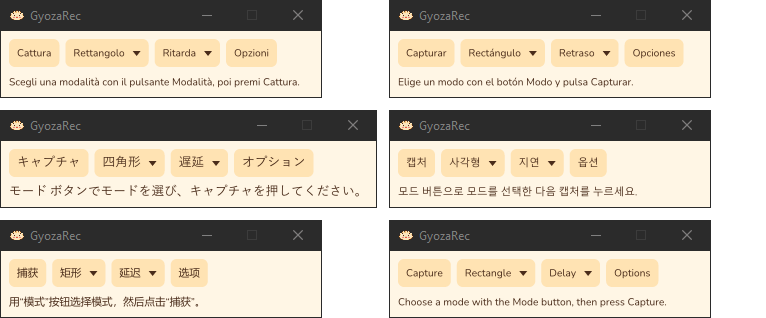
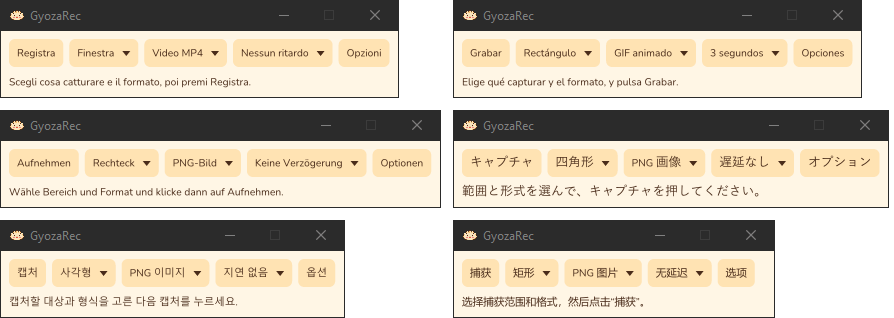
feat(ui): separate Area and Format menus
The toolbar shows Capture (Record for videos and GIFs), Area, Format,
Delay and Options; each dropdown shows its current value. The starting
hint names the capture button as it is labelled. README and screenshots
updated.

diff --git a/src/presentation/toolbar_state.rs b/src/presentation/toolbar_state.rs
@@ -30,22 +30,6 @@ pub fn capture_label(settings: &AppSettings, texts: &Texts) -> &'static str {
     if settings.format.is_recording() { texts.record } else { texts.capture }
 }
 
-// Transitional: the single menu of the previous toolbar, removed with it.
-pub const MODES: [(CaptureArea, OutputFormat); 5] = [
-    (CaptureArea::Rectangle, OutputFormat::Png),
-    (CaptureArea::Window, OutputFormat::Png),
-    (CaptureArea::FullScreen, OutputFormat::Png),
-    (CaptureArea::Rectangle, OutputFormat::Mp4),
-    (CaptureArea::Rectangle, OutputFormat::Gif),
-];
-
-pub fn mode_label(mode: (CaptureArea, OutputFormat), texts: &Texts) -> &'static str {
-    match mode {
-        (area, OutputFormat::Png) => area_label(area, texts),
-        (_, format) => format_label(format, texts),
-    }
-}
-
 pub fn delay_label(seconds: u32, texts: &Texts) -> &'static str {
     texts.delays[(seconds as usize).min(DELAYS.len() - 1)]
 }
@@ -105,30 +89,46 @@ pub struct ToolbarState {
     pub busy: bool,
     /// The outcome the status line shows, so it can be re-translated.
     shown_outcome: Option<CaptureOutcome>,
+    /// The status line still shows the starting hint.
+    showing_hint: bool,
 }
 
 impl ToolbarState {
     pub fn new(settings: AppSettings, language: Language) -> Self {
-        Self {
+        let mut state = Self {
             settings,
             language,
-            status: language.texts().initial_status.to_string(),
+            status: String::new(),
             status_is_error: false,
             last_saved: None,
             busy: false,
             shown_outcome: None,
+            showing_hint: true,
+        };
+        state.status = state.hint();
+        state
+    }
+
+    fn hint(&self) -> String {
+        let texts = self.texts();
+        texts.initial_status.replace("{button}", capture_label(&self.settings, texts))
+    }
+
+    /// Call after changing `settings`: the hint names the capture button.
+    pub fn settings_changed(&mut self) {
+        if self.showing_hint {
+            self.status = self.hint();
         }
     }
 
     /// Switches language; the status follows unless it is free text.
     pub fn set_language(&mut self, language: Language) {
-        let old_initial = self.texts().initial_status;
         self.language = language;
         if let Some(o) = &self.shown_outcome {
             let (text, _) = format_status(o, &self.status, self.texts());
             self.status = text;
-        } else if self.status == old_initial {
-            self.status = self.texts().initial_status.to_string();
+        } else if self.showing_hint {
+            self.status = self.hint();
         }
     }
 
@@ -145,6 +145,7 @@ impl ToolbarState {
         }
         if o.kind != CaptureOutcomeKind::Canceled {
             self.shown_outcome = Some(o.clone());
+            self.showing_hint = false;
         }
     }
 
@@ -152,6 +153,7 @@ impl ToolbarState {
         self.status = format!("{}{msg}", self.texts().error_prefix);
         self.status_is_error = true;
         self.shown_outcome = None;
+        self.showing_hint = false;
     }
 }
 
@@ -192,7 +194,7 @@ mod tests {
     fn initial_status_names_the_capture_button_and_no_mode_button() {
         for lang in Language::ALL {
             let t = lang.texts();
-            assert!(t.initial_status.contains(t.capture), "{lang:?}: {}", t.initial_status);
+            assert_eq!(t.initial_status.matches("{button}").count(), 1, "{lang:?}");
             for old in ["Mode", "Modus", "Modalità", "Modo", "モード", "모드", "模式"] {
                 assert!(!t.initial_status.contains(old), "{lang:?}: {}", t.initial_status);
             }
@@ -276,7 +278,7 @@ mod tests {
     fn language_switch_retranslates_the_status() {
         let mut s = ToolbarState::new(AppSettings::default(), Language::En);
         s.set_language(Language::It);
-        assert_eq!(s.status, Language::It.texts().initial_status);
+        assert_eq!(s.status, "Scegli cosa catturare e il formato, poi premi Cattura.");
         s.apply_outcome(&saved(true));
         s.set_language(Language::En);
         assert_eq!(s.status, "Saved: GyozaRec_1.png · copied to clipboard");
@@ -286,9 +288,21 @@ mod tests {
     }
 
     #[test]
+    fn hint_names_the_button_as_it_is_labelled() {
+        let mut s = ToolbarState::new(AppSettings::default(), Language::En);
+        assert_eq!(s.status, "Choose what to capture and the format, then press Capture.");
+        s.settings.format = OutputFormat::Gif;
+        s.settings_changed();
+        assert_eq!(s.status, "Choose what to capture and the format, then press Record.");
+        s.apply_outcome(&saved(false));
+        s.settings.format = OutputFormat::Png;
+        s.settings_changed();
+        assert_eq!(s.status, "Saved: GyozaRec_1.png", "a result stays until the next one");
+    }
+
+    #[test]
     fn apply_outcome_remembers_last_saved() {
         let mut s = ToolbarState::new(AppSettings::default(), Language::It);
-        assert_eq!(s.status, Language::It.texts().initial_status);
         s.apply_outcome(&CaptureOutcome {
             kind: CaptureOutcomeKind::Saved,
             path: Some(PathBuf::from(r"C:\x\a.png")),

diff --git a/src/app/mod.rs b/src/app/mod.rs
@@ -16,7 +16,9 @@ use gyozarec::platform::{
     DefaultSinkFactory, GdiGrabber, SystemSound, Win32Clipboard, Win32Cursor, Win32Monitors,
     Win32WindowList, system_ui_languages,
 };
-use gyozarec::presentation::{DELAYS, MODES, OptionsForm, ToolbarState, delay_label, mode_label};
+use gyozarec::presentation::{
+    AREAS, DELAYS, FORMATS, OptionsForm, ToolbarState, area_label, delay_label, format_label,
+};
 use gyozarec::settings::SettingsStore;
 use gyozarec::uikit::painter::Fonts;
 use muda::{CheckMenuItem, ContextMenu, Menu, MenuEvent};
@@ -143,32 +145,28 @@ impl App {
 
     fn show_menu(&self, action: ToolbarAction) {
         let Some(t) = &self.toolbar else { return };
-        let menu = Menu::new();
         let texts = self.state.texts();
-        if action == ToolbarAction::ModeMenu {
-            for (i, mode) in MODES.iter().enumerate() {
-                let checked = *mode == (self.state.settings.area, self.state.settings.format);
-                let label = mode_label(*mode, texts);
-                let _ = menu.append(&CheckMenuItem::with_id(
-                    format!("mode:{i}"),
-                    label,
-                    true,
-                    checked,
-                    None,
-                ));
-            }
-        } else {
-            for seconds in DELAYS {
-                let checked = seconds == self.state.settings.delay_seconds;
-                let label = delay_label(seconds, texts);
-                let _ = menu.append(&CheckMenuItem::with_id(
-                    format!("delay:{seconds}"),
-                    label,
-                    true,
-                    checked,
-                    None,
-                ));
-            }
+        let s = &self.state.settings;
+        // (menu id, label, checked)
+        let items: Vec<(String, &str, bool)> = match action {
+            ToolbarAction::AreaMenu => AREAS
+                .iter()
+                .enumerate()
+                .map(|(i, a)| (format!("area:{i}"), area_label(*a, texts), *a == s.area))
+                .collect(),
+            ToolbarAction::FormatMenu => FORMATS
+                .iter()
+                .enumerate()
+                .map(|(i, f)| (format!("format:{i}"), format_label(*f, texts), *f == s.format))
+                .collect(),
+            _ => DELAYS
+                .iter()
+                .map(|d| (format!("delay:{d}"), delay_label(*d, texts), *d == s.delay_seconds))
+                .collect(),
+        };
+        let menu = Menu::new();
+        for (id, label, checked) in items {
+            let _ = menu.append(&CheckMenuItem::with_id(id, label, true, checked, None));
         }
         let anchor = t.menu_anchor(action);
         let position =
@@ -220,15 +218,17 @@ impl App {
             }
             return;
         }
-        if let Some(i) = id.strip_prefix("mode:").and_then(|v| v.parse::<usize>().ok()) {
-            if let Some(mode) = MODES.get(i) {
-                (self.state.settings.area, self.state.settings.format) = *mode;
-            }
+        let index = |prefix: &str| id.strip_prefix(prefix).and_then(|v| v.parse::<usize>().ok());
+        if let Some(area) = index("area:").and_then(|i| AREAS.get(i)) {
+            self.state.settings.area = *area;
+        } else if let Some(format) = index("format:").and_then(|i| FORMATS.get(i)) {
+            self.state.settings.format = *format;
         } else if let Some(s) = id.strip_prefix("delay:").and_then(|v| v.parse::<u32>().ok()) {
             self.state.settings.delay_seconds = s;
         } else {
             return;
         }
+        self.state.settings_changed();
         self.save_settings();
         self.refresh_toolbar();
     }
@@ -348,9 +348,11 @@ impl ApplicationHandler<AppEvent> for App {
         }
         match action {
             Some(ToolbarAction::Capture) => self.start_capture(),
-            Some(action @ (ToolbarAction::ModeMenu | ToolbarAction::DelayMenu)) => {
-                self.show_menu(action)
-            }
+            Some(
+                action @ (ToolbarAction::AreaMenu
+                | ToolbarAction::FormatMenu
+                | ToolbarAction::DelayMenu),
+            ) => self.show_menu(action),
             Some(ToolbarAction::OpenFolder) => self.open_folder(),
             Some(ToolbarAction::Options) => self.open_options(event_loop),
             None => {}

diff --git a/src/app/toolbar.rs b/src/app/toolbar.rs
@@ -1,8 +1,8 @@
-//! The main toolbar window: four buttons and a status line.
+//! The main toolbar window: capture button, three dropdowns, Options and a status line.
 
 use super::surface::WindowSurface;
 use gyozarec::geometry::PixelSize;
-use gyozarec::presentation::{ToolbarState, delay_label, mode_label};
+use gyozarec::presentation::{ToolbarState, area_label, capture_label, delay_label, format_label};
 use gyozarec::uikit::painter::{Fonts, Painter};
 use gyozarec::uikit::theme::GYOZA;
 use gyozarec::uikit::widgets::{Ui, WidgetKind, layout_row};
@@ -16,16 +16,18 @@ const PAD: f32 = 8.0;
 /// Keeps the title readable when the labels are short (e.g. Chinese).
 const MIN_WIDTH: f32 = 320.0;
 const ID_CAPTURE: u32 = 1;
-const ID_MODE: u32 = 2;
+const ID_AREA: u32 = 2;
 const ID_DELAY: u32 = 3;
 const ID_OPTIONS: u32 = 4;
 const ID_STATUS: u32 = 5;
 const ID_FOLDER: u32 = 6;
+const ID_FORMAT: u32 = 7;
 
 #[derive(Clone, Copy, Debug, PartialEq, Eq)]
 pub enum ToolbarAction {
     Capture,
-    ModeMenu,
+    AreaMenu,
+    FormatMenu,
     DelayMenu,
     Options,
     OpenFolder,
@@ -40,15 +42,14 @@ pub struct Toolbar {
 
 fn build_ui(state: &ToolbarState, fonts: &Fonts) -> Ui {
     let texts = state.texts();
+    let s = &state.settings;
     let button = |label: &str, dropdown: bool| WidgetKind::Button { label: label.into(), dropdown };
     let mut widgets = layout_row(
         vec![
-            (ID_CAPTURE, button(texts.capture, false)),
-            (
-                ID_MODE,
-                button(mode_label((state.settings.area, state.settings.format), texts), true),
-            ),
-            (ID_DELAY, button(delay_label(state.settings.delay_seconds, texts), true)),
+            (ID_CAPTURE, button(capture_label(s, texts), false)),
+            (ID_AREA, button(area_label(s.area, texts), true)),
+            (ID_FORMAT, button(format_label(s.format, texts), true)),
+            (ID_DELAY, button(delay_label(s.delay_seconds, texts), true)),
             (ID_OPTIONS, button(texts.options, false)),
         ],
         PAD,
@@ -120,7 +121,11 @@ impl Toolbar {
 
     /// Bottom-left corner of a dropdown button, in client physical pixels.
     pub fn menu_anchor(&self, action: ToolbarAction) -> PhysicalPosition<i32> {
-        let id = if action == ToolbarAction::DelayMenu { ID_DELAY } else { ID_MODE };
+        let id = match action {
+            ToolbarAction::FormatMenu => ID_FORMAT,
+            ToolbarAction::DelayMenu => ID_DELAY,
+            _ => ID_AREA,
+        };
         let scale = self.scale();
         let rect = self.ui.widget(id).map(|w| w.rect).unwrap_or_default();
         PhysicalPosition::new((rect.x * scale) as i32, (rect.bottom() * scale) as i32)
@@ -149,7 +154,8 @@ impl Toolbar {
                 }
                 return match self.ui.pointer_up(self.cursor.0, self.cursor.1)? {
                     ID_CAPTURE => Some(ToolbarAction::Capture),
-                    ID_MODE => Some(ToolbarAction::ModeMenu),
+                    ID_AREA => Some(ToolbarAction::AreaMenu),
+                    ID_FORMAT => Some(ToolbarAction::FormatMenu),
                     ID_DELAY => Some(ToolbarAction::DelayMenu),
                     ID_OPTIONS => Some(ToolbarAction::Options),
                     ID_FOLDER => Some(ToolbarAction::OpenFolder),

diff --git a/src/i18n/ja.rs b/src/i18n/ja.rs
@@ -7,7 +7,7 @@ pub(super) const TEXTS: Texts = Texts {
     formats: ["PNG 画像", "MP4 動画", "アニメーション GIF"],
     record: "録画",
     delays: ["遅延なし", "1 秒", "2 秒", "3 秒", "4 秒", "5 秒"],
-    initial_status: "範囲と形式を選んで、キャプチャを押してください。",
+    initial_status: "範囲と形式を選んで、{button}を押してください。",
     saved_prefix: "保存しました: ",
     copied_suffix: " · クリップボードにコピーしました",
     error_prefix: "エラー: ",

diff --git a/src/i18n/fr.rs b/src/i18n/fr.rs
@@ -7,7 +7,7 @@ pub(super) const TEXTS: Texts = Texts {
     formats: ["Image PNG", "Vidéo MP4", "GIF animé"],
     record: "Enregistrer",
     delays: ["Aucun délai", "1 seconde", "2 secondes", "3 secondes", "4 secondes", "5 secondes"],
-    initial_status: "Choisissez quoi capturer et le format, puis cliquez sur Capturer.",
+    initial_status: "Choisissez quoi capturer et le format, puis cliquez sur {button}.",
     saved_prefix: "Enregistré : ",
     copied_suffix: " · copié dans le presse-papiers",
     error_prefix: "Erreur : ",

diff --git a/src/i18n/ko.rs b/src/i18n/ko.rs
@@ -7,7 +7,7 @@ pub(super) const TEXTS: Texts = Texts {
     formats: ["PNG 이미지", "MP4 동영상", "애니메이션 GIF"],
     record: "녹화",
     delays: ["지연 없음", "1초", "2초", "3초", "4초", "5초"],
-    initial_status: "캡처할 대상과 형식을 고른 다음 캡처를 누르세요.",
+    initial_status: "캡처할 대상과 형식을 고른 다음 {button}를 누르세요.",
     saved_prefix: "저장됨: ",
     copied_suffix: " · 클립보드에 복사됨",
     error_prefix: "오류: ",

diff --git a/src/i18n/pt_br.rs b/src/i18n/pt_br.rs
@@ -7,7 +7,7 @@ pub(super) const TEXTS: Texts = Texts {
     formats: ["Imagem PNG", "Vídeo MP4", "GIF animado"],
     record: "Gravar",
     delays: ["Sem atraso", "1 segundo", "2 segundos", "3 segundos", "4 segundos", "5 segundos"],
-    initial_status: "Escolha o que capturar e o formato e clique em Capturar.",
+    initial_status: "Escolha o que capturar e o formato e clique em {button}.",
     saved_prefix: "Salvo: ",
     copied_suffix: " · copiado para a área de transferência",
     error_prefix: "Erro: ",

diff --git a/src/i18n/it.rs b/src/i18n/it.rs
@@ -7,7 +7,7 @@ pub(super) const TEXTS: Texts = Texts {
     formats: ["Immagine PNG", "Video MP4", "GIF animata"],
     record: "Registra",
     delays: ["Nessun ritardo", "1 secondo", "2 secondi", "3 secondi", "4 secondi", "5 secondi"],
-    initial_status: "Scegli cosa catturare e il formato, poi premi Cattura.",
+    initial_status: "Scegli cosa catturare e il formato, poi premi {button}.",
     saved_prefix: "Salvato: ",
     copied_suffix: " · copiato negli appunti",
     error_prefix: "Errore: ",

diff --git a/src/i18n/es.rs b/src/i18n/es.rs
@@ -7,7 +7,7 @@ pub(super) const TEXTS: Texts = Texts {
     formats: ["Imagen PNG", "Vídeo MP4", "GIF animado"],
     record: "Grabar",
     delays: ["Sin retraso", "1 segundo", "2 segundos", "3 segundos", "4 segundos", "5 segundos"],
-    initial_status: "Elige qué capturar y el formato, y pulsa Capturar.",
+    initial_status: "Elige qué capturar y el formato, y pulsa {button}.",
     saved_prefix: "Guardado: ",
     copied_suffix: " · copiado al portapapeles",
     error_prefix: "Error: ",

diff --git a/src/i18n/en.rs b/src/i18n/en.rs
@@ -7,7 +7,7 @@ pub(super) const TEXTS: Texts = Texts {
     formats: ["PNG image", "MP4 video", "Animated GIF"],
     record: "Record",
     delays: ["No delay", "1 second", "2 seconds", "3 seconds", "4 seconds", "5 seconds"],
-    initial_status: "Choose what to capture and the format, then press Capture.",
+    initial_status: "Choose what to capture and the format, then press {button}.",
     saved_prefix: "Saved: ",
     copied_suffix: " · copied to clipboard",
     error_prefix: "Error: ",

diff --git a/src/i18n/zh_cn.rs b/src/i18n/zh_cn.rs
@@ -7,7 +7,7 @@ pub(super) const TEXTS: Texts = Texts {
     formats: ["PNG 图片", "MP4 视频", "GIF 动图"],
     record: "录制",
     delays: ["无延迟", "1 秒", "2 秒", "3 秒", "4 秒", "5 秒"],
-    initial_status: "选择捕获范围和格式，然后点击“捕获”。",
+    initial_status: "选择捕获范围和格式，然后点击“{button}”。",
     saved_prefix: "已保存：",
     copied_suffix: " · 已复制到剪贴板",
     error_prefix: "错误：",

diff --git a/src/i18n/de.rs b/src/i18n/de.rs
@@ -14,7 +14,7 @@ pub(super) const TEXTS: Texts = Texts {
         "4 Sekunden",
         "5 Sekunden",
     ],
-    initial_status: "Wähle Bereich und Format und klicke dann auf Aufnehmen.",
+    initial_status: "Wähle Bereich und Format und klicke dann auf {button}.",
     saved_prefix: "Gespeichert: ",
     copied_suffix: " · in die Zwischenablage kopiert",
     error_prefix: "Fehler: ",
